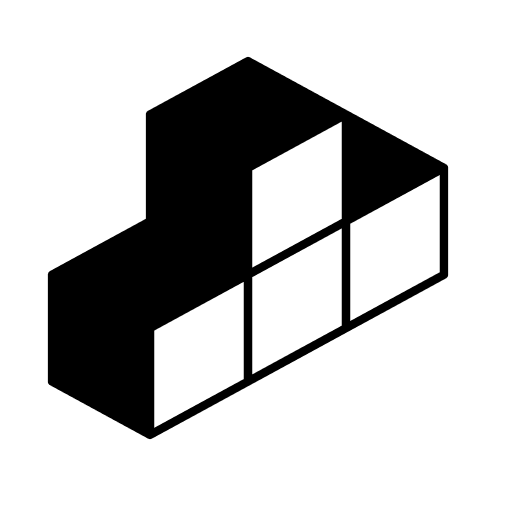
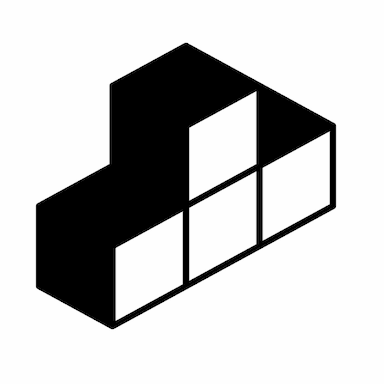
Some minor changes
- Added PGP fingerprint, don't ask me why

- Resize and compress images

- Improve description, change colors, and layout

diff --git a/stylesheets/main.css b/stylesheets/main.css
@@ -12,11 +12,8 @@ body {
   height: 100%;
   font-family: -apple-system, BlinkMacSystemFont, 'Segoe UI', Roboto,
     Oxygen, Ubuntu, Cantarell, 'Open Sans', 'Helvetica Neue', sans-serif;
-  display: flex;
-  align-items: center;
-  justify-content: center;
-  color: #212121;
-  background-color: #fafafb;
+  color: #263238;
+  background-color: #eceff1;
 }
 
 h1, strong {
@@ -24,35 +21,38 @@ h1, strong {
 }
 
 a {
-  color: currentColor;
+  color: #6a1b9a;
   text-decoration: none;
   padding: 0 0.125rem;
-  border-bottom: 1px solid currentColor;
+  border-bottom: 1px solid transparent;
 }
 
 a:hover,
 a:focus {
   outline: none;
-  background-color: rgba(156, 39, 176, 0.15);
+  border-bottom: 1px solid currentColor;
+  background-color: hsla(291, 64%, 42%, 0.1);
 }
 
 .container {
   display: flex;
   align-items: center;
   justify-content: center;
-  flex-flow: wrap;
-  padding: 2rem 0;
+  flex-wrap: wrap;
+  padding: 1rem;
+  max-width: 42rem;
+  margin: 0 auto;
 }
 
 .mascots {
   position: relative;
   border-radius: 50%;
-  width: 15rem;
-  height: 15rem;
+  width: 12rem;
+  height: 12rem;
   overflow: hidden;
   background: #fff;
-  box-shadow: 0 7px 22px 4px rgba(0, 0, 0, 0.2);
-  margin: 1rem;
+  box-shadow: 0 4px 8px rgba(0, 0, 0, 0.1);
+  margin: 2rem;
 }
 
 .mascots .mascots__mascot {
@@ -89,16 +89,25 @@ a:focus {
 
 .meta {
   padding: 1rem;
+  background-color: #fff;
+  border-radius: 3px;
+  text-align: center;
+  box-shadow: 0 4px 8px rgba(0, 0, 0, 0.1);
 }
 
 .meta h1,
 .meta p,
-.meta ul {
+.meta ul,
+.meta pre {
   margin: 0;
-  padding-bottom: 0.5rem;
+  margin-bottom: 1.125rem;
 }
 
-
+.meta .pgp-fingerprint {
+  white-space: pre-wrap;
+  font-size: 0.875rem;
+  line-height: 1.125;
+}
 
 @keyframes intro {
   from, 12.5% {
@@ -119,10 +128,6 @@ a:focus {
 
 @media (max-width: 48rem) {
   body {
-    display: block;
-  }
-
-  .meta h1 {
-    text-align: center;
+    font-size: 0.875rem;
   }
 }

diff --git a/index.html b/index.html
@@ -15,18 +15,12 @@
     </div>
     <div class="meta">
       <h1 class="title">Laxman Damera</h1>
-      <p><em>Vanilla JS guy, builds things for the Web, craves performance</em></p>
-      <p>I am</p>
-      <ul>
-        <li>a front end web dev, use standards</li>
-        <li>an OSS developer and contributor (C, Node.js, web extensions)</li>
-        <li>an occasional public speaker, still consider myself an introvert</li>
-        <li>second half of <a target="_blank" rel="noreferrer nofollow" href="https://github.com/ramlmn">@ramlmn</a></li>
-      </ul>
+      <pre class="pgp-fingerprint">9974 A1AD 8D05 435A A74C
+5C38 5F2C B13D 2DFF 531F</pre>
+      <p>Human // Front-end web developer // Obsessed with performance // Writes vanilla JS // Uses Oxford comma // Occasional speaker // Still consider myself an introvert // Organizes events that make me feel tired // Second half of <a target="_blank" rel="noreferrer nofollow" href="https://github.com/ramlmn">@ramlmn</a></p>
       <p>
-        Talk tech to me on
-        <a target="_blank" rel="noreferrer nofollow" href="https://twitter.com/bytemode">Twitter</a>,
-        <a target="_blank" rel="noreferrer nofollow" href="https://github.com/notlmn">GitHub</a>,
+        <a target="_blank" rel="noreferrer nofollow" href="https://twitter.com/bytemode">Twitter</a> | 
+        <a target="_blank" rel="noreferrer nofollow" href="https://github.com/notlmn">GitHub</a> | 
         <a target="_blank" rel="noreferrer nofollow" href="https://keybase.io/lmn">Keybase</a>
       </p>
     </div>
